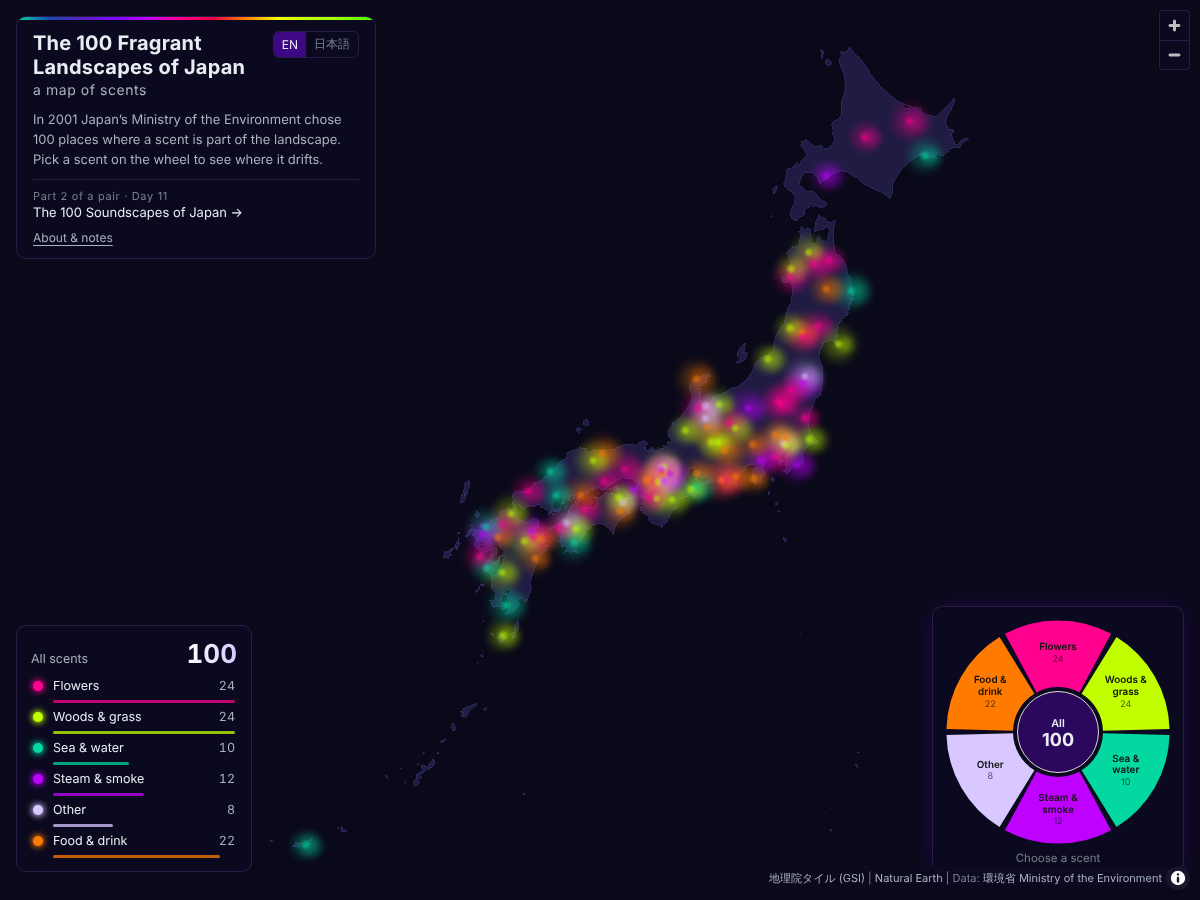
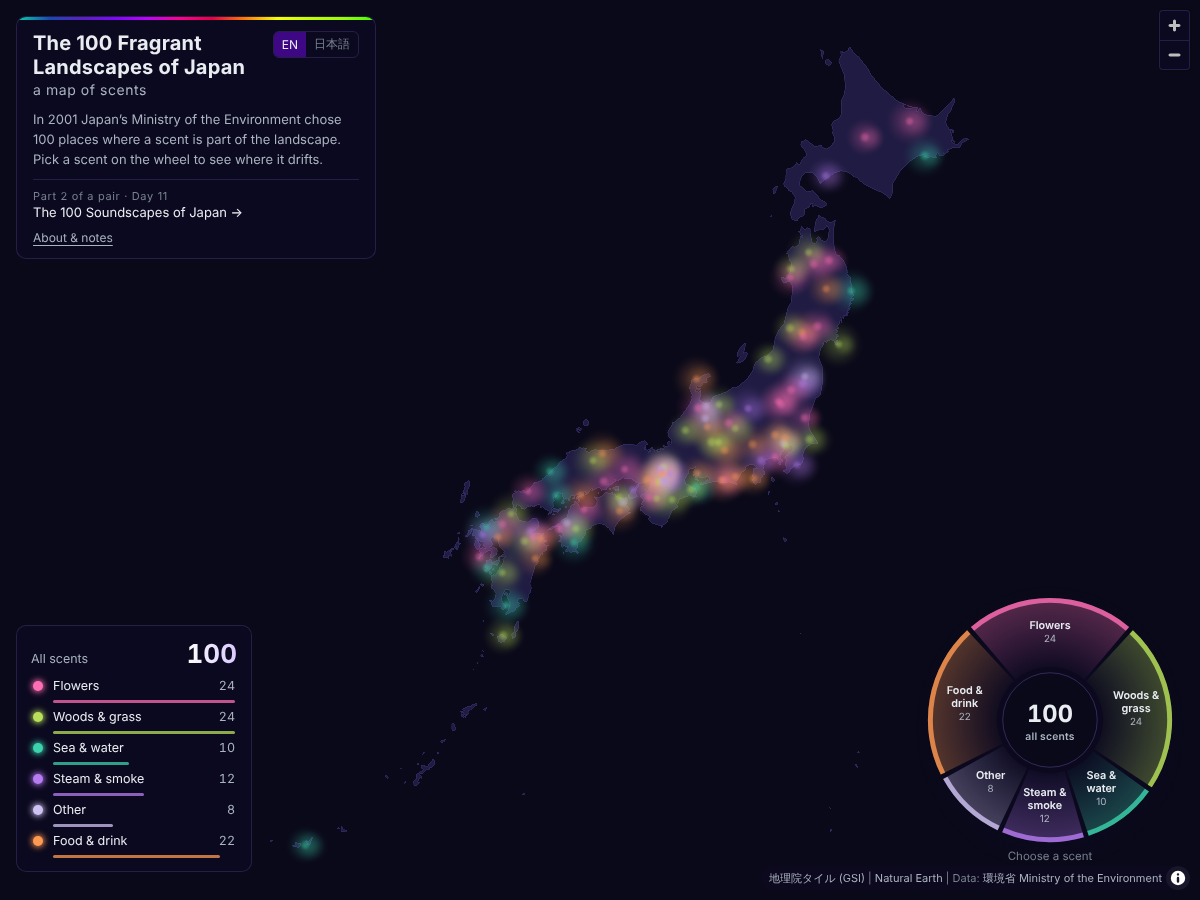
Soften colours and make the scent wheel respond
Hazes and the wheel use softer tints of the logo colours. Each part of
the wheel is sized by its count and drawn as a soft gradient with a
coloured rim; hovering a part shows its places on the map, and the
centre and the line below show the count and what the kind includes.
The chosen kind glows a little stronger than the default view.

diff --git a/js/app.js b/js/app.js
@@ -4,9 +4,10 @@
   // order around the wheel, clockwise from the top
   var CATS = ['flower', 'green', 'water', 'smoke', 'other', 'food'];
   // palette taken from the Mapterhorn logo, as in Day 11
+  // hues from the Mapterhorn logo, toned down so the hazes read as scent rather than neon
   var COLORS = {
-    flower: '#ff008f', green: '#c1ff00', water: '#03d8a0',
-    smoke: '#bf01ff', other: '#d9c8ff', food: '#ff7b00'
+    flower: '#ff6eb4', green: '#b8e05a', water: '#3cd2ad',
+    smoke: '#b77cf2', other: '#cfc2f2', food: '#ff9a52'
   };
   var MONTHS_EN = ['Jan', 'Feb', 'Mar', 'Apr', 'May', 'Jun', 'Jul', 'Aug', 'Sep', 'Oct', 'Nov', 'Dec'];
   var DAY11 = 'https://shinyanakashima.github.io/30daymapchallenge-2026day11-100soundscapes/';
@@ -32,6 +33,15 @@
         smoke: ['Steam &', 'smoke'], other: ['Other'], food: ['Food &', 'drink']
       },
       catShort: { flower: 'Flowers', green: 'Woods', water: 'Sea', smoke: 'Steam', other: 'Other', food: 'Food' },
+      catNote: {
+        flower: 'lavender, plum, wisteria, peony, osmanthus',
+        green: 'cedar, cypress, camphor, moss, grassland',
+        water: 'tide, rocky shores, sea fog, river wind',
+        smoke: 'hot springs, incense, kilns, candles',
+        other: 'old books, ink, indigo, rain on stone',
+        food: 'crackers, tea, sake, soy sauce, eel'
+      },
+      hubAll: 'all scents',
       also: 'also',
       season: 'Season',
       allYear: 'All year',
@@ -91,6 +101,15 @@
         smoke: ['湯けむり', '・煙'], other: ['そのほか'], food: ['食べ物', '・飲み物']
       },
       catShort: { flower: '花', green: '木・森', water: '海', smoke: '湯・煙', other: 'ほか', food: '食' },
+      catNote: {
+        flower: 'ラベンダー・梅・藤・牡丹・金木犀',
+        green: '杉・檜・楠・苔・草原',
+        water: '潮・磯・海霧・川を渡る風',
+        smoke: '温泉・線香・窯・ろうそく',
+        other: '古書・墨・藍・雨上がりの石',
+        food: 'せんべい・茶・酒・醤油・うなぎ'
+      },
+      hubAll: 'すべて',
       also: 'ほかに',
       season: '季節',
       allYear: '一年中',
@@ -146,7 +165,7 @@
 
   // ---------- state ----------
   var params = new URLSearchParams(location.search);
-  var state = { lang: 'en', focus: null, selected: null };
+  var state = { lang: 'en', focus: null, preview: null, selected: null };
   try {
     var saved = localStorage.getItem('fragrances-lang');
     if (saved === 'ja' || saved === 'en') state.lang = saved;
@@ -217,7 +236,7 @@
     return ['match', ['get', 'category'], 'flower', COLORS.flower, 'green', COLORS.green, 'water', COLORS.water,
       'smoke', COLORS.smoke, 'other', COLORS.other, COLORS.food];
   }
-  // feature-state "f": 1 = in focus (or no focus), 0 = faded
+  // feature-state "f": 2 = the scent in focus, 1 = no focus, 0 = faded
   var F = ['coalesce', ['feature-state', 'f'], 1];
   var SEL = ['boolean', ['feature-state', 'sel'], false];
 
@@ -262,7 +281,7 @@
             'circle-radius': hazeRadius(1, 1),
             'circle-color': catColor(),
             'circle-blur': 1,
-            'circle-opacity': ['case', ['==', F, 1], 0.34, 0.035],
+            'circle-opacity': ['match', F, 2, 0.36, 1, 0.26, 0.03],
             'circle-pitch-alignment': 'map'
           }
         });
@@ -272,7 +291,7 @@
             'circle-radius': hazeRadius(0.7, 1),
             'circle-color': catColor(),
             'circle-blur': 1,
-            'circle-opacity': ['case', ['==', F, 1], 0.3, 0.03],
+            'circle-opacity': ['match', F, 2, 0.28, 1, 0.2, 0.025],
             'circle-translate': [0, 0]
           }
         });
@@ -282,7 +301,7 @@
             'circle-radius': hazeRadius(0.26, 1),
             'circle-color': catColor(),
             'circle-blur': 0.9,
-            'circle-opacity': ['case', ['==', F, 1], 0.5, 0.05]
+            'circle-opacity': ['match', F, 2, 0.55, 1, 0.36, 0.04]
           }
         });
         map.addLayer({
@@ -338,18 +357,41 @@
   // ---------- focus ----------
   function setFocus(c) {
     state.focus = (c && c !== state.focus) ? c : null;
+    state.preview = null;
     applyFocus();
   }
-  function applyFocus() {
+  // hovering a part of the wheel shows its places on the map before it is chosen
+  function setPreview(c) {
+    if (state.preview === c) return;
+    state.preview = c;
+    paintFocus();
+  }
+  function paintFocus() {
     var t = T[state.lang];
+    var f = state.preview || state.focus;
     items.forEach(function (it) {
-      var on = !state.focus || it.category === state.focus;
-      if (map.getSource('pts')) map.setFeatureState({ source: 'pts', id: it.id }, { f: on ? 1 : 0 });
+      var v = !f ? 1 : (it.category === f ? 2 : 0);
+      if (map.getSource('pts')) map.setFeatureState({ source: 'pts', id: it.id }, { f: v });
     });
     Array.prototype.forEach.call(document.querySelectorAll('#wheel .seg'), function (g) {
       var c = g.getAttribute('data-cat');
-      g.setAttribute('aria-pressed', state.focus === c ? 'true' : 'false');
-      g.classList.toggle('dim', !!state.focus && state.focus !== c);
+      g.classList.toggle('dim', !!f && f !== c);
+      g.classList.toggle('lit', f === c);
+    });
+    var hn = document.querySelector('#wheel .hub .hn'), hl = document.querySelector('#wheel .hub .hl');
+    if (hn) {
+      hn.textContent = f ? (counts[f] || 0) : items.length;
+      hl.textContent = f ? t.cat[f] : t.hubAll;
+      hl.setAttribute('style', f ? 'fill:' + COLORS[f] : '');
+    }
+    $('wheelHint').textContent = f ? t.catNote[f] : t.wheelHint;
+    $('wheelHint').classList.toggle('on', !!f);
+  }
+  function applyFocus() {
+    var t = T[state.lang];
+    paintFocus();
+    Array.prototype.forEach.call(document.querySelectorAll('#wheel .seg'), function (g) {
+      g.setAttribute('aria-pressed', state.focus === g.getAttribute('data-cat') ? 'true' : 'false');
     });
     var hub = document.querySelector('#wheel .hub');
     if (hub) hub.setAttribute('aria-pressed', state.focus ? 'false' : 'true');
@@ -395,41 +437,58 @@
     var t = T[state.lang];
     var narrow = isNarrow();
     svg.setAttribute('aria-label', t.wheelLabel);
-    var R0 = 50, R1 = 124, GAP = 1.6, step = 360 / CATS.length;
+    var R0 = 54, R1 = 124, RIM = 5, GAP = 1.2;
+    // each part of the wheel takes an angle in proportion to its count (with a minimum, so labels fit)
+    var MIN = 38, total = items.length;
+    var raw = CATS.map(function (c) { return 360 * (counts[c] || 0) / total; });
+    var extra = raw.reduce(function (acc, v) { return acc + Math.max(0, MIN - v); }, 0);
+    var big = raw.reduce(function (acc, v) { return acc + (v > MIN ? v : 0); }, 0);
+    var spans = raw.map(function (v) { return v < MIN ? MIN : v - extra * v / big; });
+    var defs = el('defs', {}, svg);
+    var blur = el('filter', { id: 'wglow', x: '-30%', y: '-30%', width: '160%', height: '160%' }, defs);
+    el('feGaussianBlur', { stdDeviation: '4' }, blur);
+    var start = -spans[0] / 2;
     CATS.forEach(function (c, i) {
-      var a0 = i * step - step / 2 + GAP, a1 = i * step + step / 2 - GAP;
+      var a0 = start + GAP, a1 = start + spans[i] - GAP, mid = start + spans[i] / 2;
+      start += spans[i];
+      var gr = el('radialGradient', { id: 'wg-' + c, cx: 0, cy: 0, r: R1, gradientUnits: 'userSpaceOnUse' }, defs);
+      el('stop', { offset: (R0 / R1).toFixed(3), 'stop-color': COLORS[c], 'stop-opacity': 0.04 }, gr);
+      el('stop', { offset: '1', 'stop-color': COLORS[c], 'stop-opacity': 0.42 }, gr);
       var g = el('g', { 'class': 'seg', 'data-cat': c, role: 'button', tabindex: '0', 'aria-pressed': 'false' }, svg);
-      el('path', { 'class': 'fill', d: arcPath(R0, R1, a0, a1), fill: COLORS[c] }, g);
-      el('path', { 'class': 'ring', d: arcPath(R0 + 2, R1 - 2, a0 + 0.8, a1 - 0.8) }, g);
+      el('path', { 'class': 'glow', d: arcPath(R1 - RIM, R1 + 2, a0, a1), fill: COLORS[c], filter: 'url(#wglow)' }, g);
+      el('path', { 'class': 'fill', d: arcPath(R0, R1, a0, a1), fill: 'url(#wg-' + c + ')' }, g);
+      el('path', { 'class': 'rim', d: arcPath(R1 - RIM, R1, a0, a1), fill: COLORS[c] }, g);
       var title = el('title', {}, g);
       title.textContent = t.cat[c] + ': ' + (counts[c] || 0);
       g.setAttribute('aria-label', t.cat[c] + ', ' + (counts[c] || 0));
-      var mid = polar(87, i * step);
+      var p = polar(88, mid);
       var lines = narrow ? [t.catShort[c]] : t.catWheel[c];
       var lh = narrow ? 17 : 13;
-      var y0 = mid[1] - (lines.length - 1) * lh / 2 - (narrow ? -5 : 4);
-      lines.forEach(function (s, k) {
-        var tx = el('text', { x: mid[0].toFixed(1), y: (y0 + k * lh).toFixed(1), 'text-anchor': 'middle' }, g);
+      var y0 = p[1] - (lines.length - 1) * lh / 2 - (narrow ? -5 : 4);
+      lines.forEach(function (str, k) {
+        var tx = el('text', { x: p[0].toFixed(1), y: (y0 + k * lh).toFixed(1), 'text-anchor': 'middle' }, g);
         if (narrow) tx.setAttribute('style', 'font-size:' + (state.lang === 'ja' ? 19 : 17) + 'px');
-        tx.textContent = s;
+        tx.textContent = str;
       });
       if (!narrow) {
-        var tn = el('text', { 'class': 'n', x: mid[0].toFixed(1), y: (y0 + lines.length * lh).toFixed(1), 'text-anchor': 'middle' }, g);
+        var tn = el('text', { 'class': 'n', x: p[0].toFixed(1), y: (y0 + lines.length * lh).toFixed(1), 'text-anchor': 'middle' }, g);
         tn.textContent = counts[c] || 0;
       }
       g.addEventListener('click', function () { setFocus(c); });
+      g.addEventListener('mouseenter', function () { setPreview(c); });
+      g.addEventListener('mouseleave', function () { setPreview(null); });
+      g.addEventListener('focus', function () { setPreview(c); });
+      g.addEventListener('blur', function () { setPreview(null); });
       g.addEventListener('keydown', function (e) {
         if (e.key === 'Enter' || e.key === ' ') { e.preventDefault(); setFocus(c); }
       });
     });
     var hub = el('g', { 'class': 'hub', role: 'button', tabindex: '0', 'aria-pressed': 'true', 'aria-label': t.all }, svg);
-    el('circle', { r: R0 - 5 }, hub);
-    var h1 = el('text', { y: narrow ? -2 : -6, 'text-anchor': 'middle' }, hub);
-    h1.textContent = t.all;
-    if (narrow) h1.setAttribute('style', 'font-size:17px');
-    var h2 = el('text', { 'class': 'n', y: narrow ? 20 : 16, 'text-anchor': 'middle' }, hub);
-    h2.textContent = items.length;
-    if (narrow) h2.setAttribute('style', 'font-size:22px');
+    el('circle', { r: R0 - 6 }, hub);
+    var hn = el('text', { 'class': 'hn', y: narrow ? 4 : 2, 'text-anchor': 'middle' }, hub);
+    if (narrow) hn.setAttribute('style', 'font-size:26px');
+    var hl = el('text', { 'class': 'hl', y: narrow ? 26 : 20, 'text-anchor': 'middle' }, hub);
+    if (narrow) hl.setAttribute('style', 'font-size:13px');
     hub.addEventListener('click', function () { setFocus(null); });
     hub.addEventListener('keydown', function (e) {
       if (e.key === 'Enter' || e.key === ' ') { e.preventDefault(); setFocus(null); }
@@ -540,6 +599,7 @@
       var v = t[e.getAttribute('data-i18n')];
       if (typeof v === 'string') e.textContent = v;
     });
+    $('wheelHint').textContent = t.wheelHint;
     $('pairLink').href = DAY11 + (state.lang === 'ja' ? '?lang=ja' : '');
     Array.prototype.forEach.call(document.querySelectorAll('.lang button'), function (b) {
       b.setAttribute('aria-pressed', b.getAttribute('data-lang') === state.lang ? 'true' : 'false');

diff --git a/css/style.css b/css/style.css
@@ -85,25 +85,33 @@ h1 .t-sub { display: block; font-size: 14px; font-weight: 400; color: var(--ink-
 .dot { width: 10px; height: 10px; border-radius: 50%; display: inline-block; box-shadow: 0 0 6px 1px currentColor; }
 
 /* wheel (bottom-right) */
-.wheel-panel { right: var(--gutter); bottom: 28px; width: 252px; padding: 8px 8px 6px; text-align: center; }
+.wheel-panel {
+  right: var(--gutter); bottom: 28px; width: 268px; padding: 6px 6px 8px; text-align: center;
+  background: radial-gradient(closest-side, rgba(12, 10, 32, 0.9) 70%, rgba(12, 10, 32, 0) 100%);
+  border: 0; border-radius: 50%; backdrop-filter: none; -webkit-backdrop-filter: none;
+}
 #wheel { width: 100%; height: auto; display: block; overflow: visible; }
 .seg { cursor: pointer; outline: none; }
-.seg path.fill { transition: opacity 0.25s; }
-.seg text { font-size: 11px; fill: #111; font-weight: 600; pointer-events: none; }
-.seg text.n { font-size: 10px; font-weight: 400; fill: rgba(0, 0, 0, 0.62); }
-.seg.dim path.fill { opacity: 0.22; }
-.seg.dim text { fill: rgba(233, 237, 242, 0.75); }
-.seg.dim text.n { fill: rgba(233, 237, 242, 0.5); }
-.seg path.ring { fill: none; stroke: var(--accent); stroke-width: 2.5; opacity: 0; }
-.seg[aria-pressed="true"] path.ring { opacity: 1; }
-.seg:focus-visible path.ring { opacity: 1; stroke-dasharray: 4 3; }
+.seg path { transition: opacity 0.35s; }
+.seg path.fill { opacity: 0.75; }
+.seg path.rim { opacity: 0.8; }
+.seg path.glow { opacity: 0; }
+.seg text { font-size: 11px; fill: var(--ink); font-weight: 600; pointer-events: none; transition: opacity 0.35s; }
+.seg text.n { font-size: 10px; font-weight: 400; fill: var(--ink-2); }
+.seg.lit path.fill { opacity: 1; }
+.seg.lit path.rim { opacity: 1; }
+.seg.lit path.glow { opacity: 0.9; }
+.seg.dim path.fill, .seg.dim path.rim { opacity: 0.25; }
+.seg.dim text { opacity: 0.45; }
+.seg:focus-visible path.rim { stroke: var(--accent); stroke-width: 1.5; }
 .hub { cursor: pointer; outline: none; }
-.hub circle { fill: rgba(255, 255, 255, 0.05); stroke: rgba(255, 255, 255, 0.18); }
-.hub[aria-pressed="true"] circle { fill: rgba(255, 255, 255, 0.12); stroke: var(--accent); }
+.hub circle { fill: rgba(10, 9, 25, 0.85); stroke: rgba(160, 130, 255, 0.28); }
 .hub:focus-visible circle { stroke: var(--accent); stroke-dasharray: 4 3; }
-.hub text { fill: var(--ink); font-size: 12px; font-weight: 600; pointer-events: none; }
-.hub text.n { font-size: 20px; font-weight: 700; }
-.wheel-hint { margin: 2px 0 0; font-size: 11.5px; color: var(--ink-3); }
+.hub text { pointer-events: none; }
+.hub .hn { fill: var(--ink); font-size: 24px; font-weight: 700; font-variant-numeric: tabular-nums; }
+.hub .hl { fill: var(--ink-2); font-size: 10.5px; font-weight: 600; letter-spacing: 0.02em; }
+.wheel-hint { margin: 0 auto; max-width: 240px; min-height: 16px; font-size: 11.5px; line-height: 1.4; color: var(--ink-3); transition: color 0.3s; }
+.wheel-hint.on { color: var(--ink-2); }
 
 .lang button:focus-visible, .about-btn:focus-visible, .close:focus-visible, .count-list button:focus-visible, .pair:focus-visible { outline: 2px solid var(--accent); outline-offset: 2px; }
 
@@ -155,9 +163,8 @@ h1 .t-sub { display: block; font-size: 14px; font-weight: 400; color: var(--ink-
   .count-head b { font-size: 18px; }
   .count-list button { font-size: 11.5px; padding: 2px 1px; gap: 6px; }
   .count-list button .bar { display: none; }
-  .wheel-panel { right: var(--gutter); bottom: 34px; width: 152px; padding: 4px; }
+  .wheel-panel { right: var(--gutter); bottom: 34px; width: 160px; padding: 2px; }
   .seg text { font-size: 12.5px; }
-  .seg text.n { display: none; }
   .wheel-hint { display: none; }
   .card { left: var(--gutter); right: var(--gutter); top: auto; bottom: 34px; width: auto; max-height: 52%; z-index: 4; }
   .maplibregl-ctrl-top-right { display: none; }
@@ -171,5 +178,3 @@ h1 .t-sub { display: block; font-size: 14px; font-weight: 400; color: var(--ink-
 .title-panel::before { content: ""; position: absolute; left: 0; right: 0; top: 0; height: 3px; background: var(--spectrum); }
 .count-head b { background: linear-gradient(90deg, #ffffff, #d9c8ff); -webkit-background-clip: text; background-clip: text; color: transparent; }
 .lang button[aria-pressed="true"] { background: rgba(127, 6, 255, 0.45); }
-.hub[aria-pressed="true"] circle { fill: rgba(127, 6, 255, 0.28); }
-.wheel-panel { box-shadow: 0 0 24px rgba(127, 6, 255, 0.18); }

diff --git a/index.html b/index.html
@@ -41,7 +41,7 @@
 
 <section class="panel wheel-panel" aria-label="Scent wheel" id="wheelPanel">
   <svg id="wheel" viewBox="-130 -130 260 260" role="group" aria-label="Scent type"></svg>
-  <p class="wheel-hint" data-i18n="wheelHint">Choose a scent</p>
+  <p class="wheel-hint" id="wheelHint">Choose a scent</p>
 </section>
 
 <section id="card" class="panel card" hidden aria-live="polite">

diff --git a/README.md b/README.md
@@ -14,7 +14,7 @@ This map places the 100 scents as soft, drifting hazes coloured by the kind of s
 
 It is the second half of a pair with Day 11, [The 100 Soundscapes of Japan: a sound calendar](https://shinyanakashima.github.io/30daymapchallenge-2026day11-100soundscapes/). Day 11 shows sounds by *when* you can hear them; this map shows scents by *what* they smell of.
 
-- Scent wheel with six kinds of scent; the counts are also listed in the bottom-left corner
+- Scent wheel with six kinds of scent, each part sized by its count; hover a part to see its places, click to keep them. The counts are also listed in the bottom-left corner
 - Click a haze for its name, place, kind of scent, season and a short description
 - English and Japanese (`?lang=ja`); a kind of scent can be set with `?scent=flower` (`green`, `water`, `smoke`, `food`, `other`)
 - Keyboard: ← / → move around the wheel, 0 shows all, Esc closes
@@ -109,7 +109,7 @@ Rules for mixed entries: the main kind is the scent the title puts first (e.g. N
 
 Day 11「[日本の音風景100選 音の暦](https://shinyanakashima.github.io/30daymapchallenge-2026day11-100soundscapes/?lang=ja)」と対になる2部作の後編です。Day 11 は音を「いつ聞けるか」で、この地図はかおりを「どんなかおりか」で見せます。
 
-- 6つのかおりの種類を選べる輪。種類ごとの件数は左下にも表示
+- 6つのかおりの種類を選べる輪（各区画の大きさは件数に比例）。マウスを乗せるとその場所が浮かび、クリックで固定。種類ごとの件数は左下にも表示
 - 霞をクリックすると、名称、場所、かおりの種類、季節、短い説明を表示
 - 英語と日本語の切り替え（`?lang=ja`）
 - 「動きを減らす」設定の端末では霞の揺らぎを止めます
